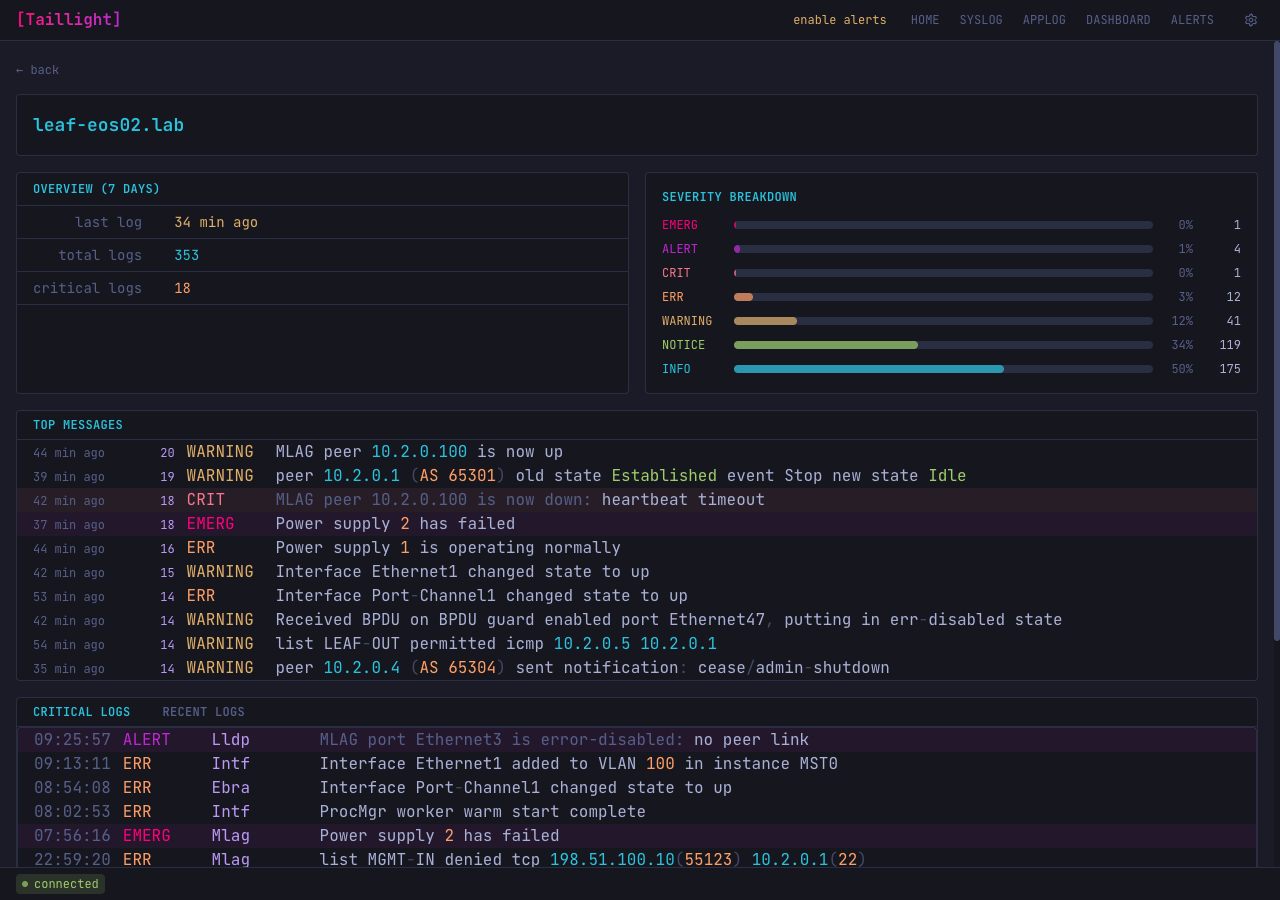
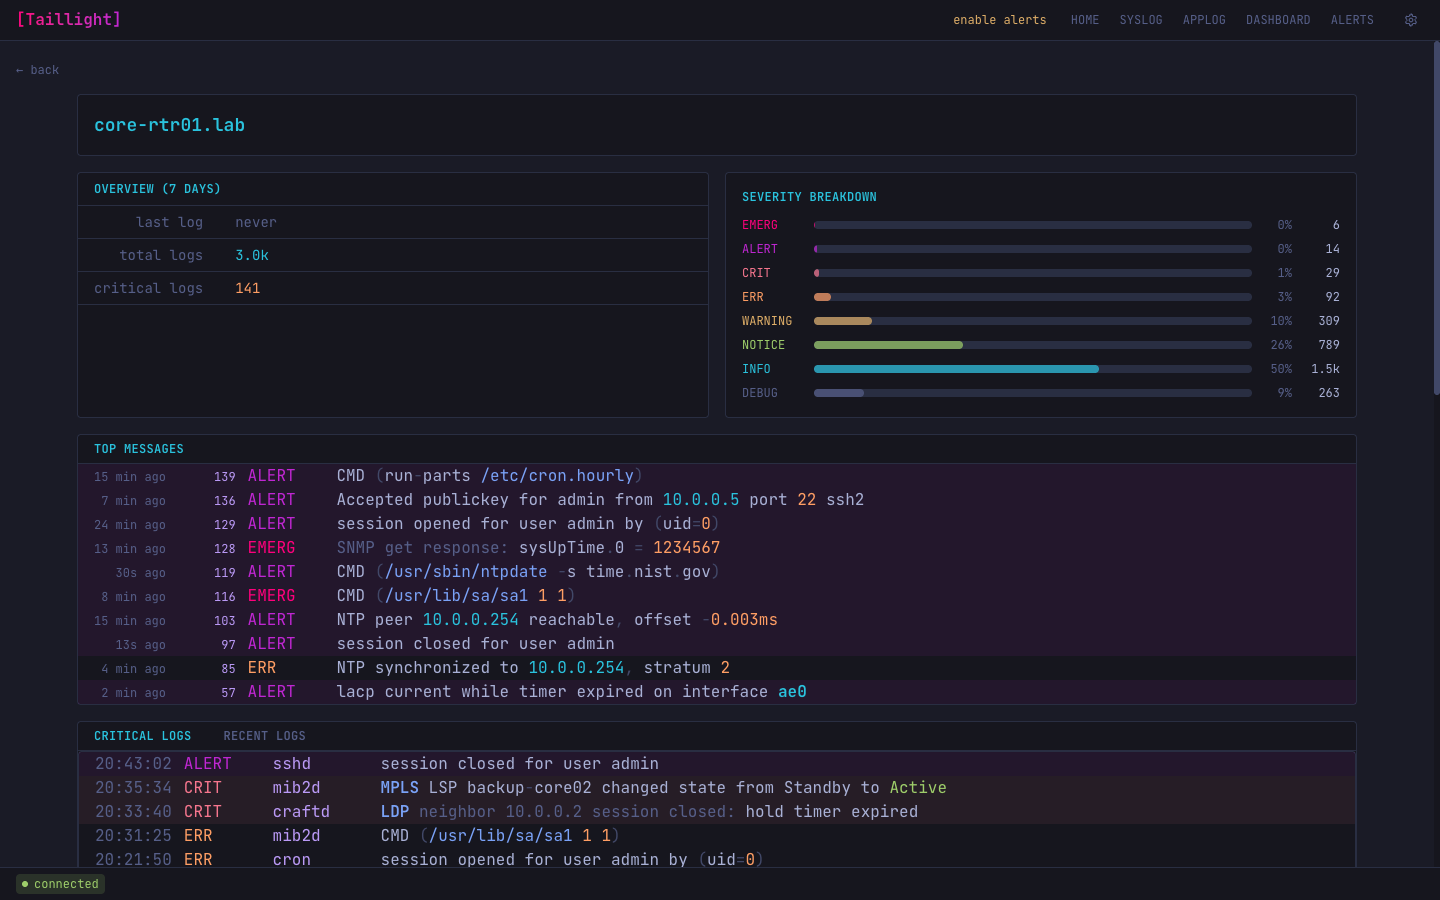
docs: update README screenshots from demo site and add live demo link

diff --git a/README.md b/README.md
@@ -5,11 +5,22 @@
 
 Lightweight, real-time log viewer for network operations teams. Stream syslog and application logs to your browser with a single Go binary and PostgreSQL.
 
-![Home](docs/screenshots/home.png)
+**[Live Demo](https://demo.taillight.lasse.cloud)** — try it without installing anything.
+
+![Home dashboard](docs/screenshots/home.png)
 
 ![Syslog stream](docs/screenshots/syslog-stream.png)
 
+<details>
+<summary>More screenshots</summary>
+
+![Application log stream](docs/screenshots/applog-stream.png)
+
 ![Device detail](docs/screenshots/device.png)
+
+![Dashboard](docs/screenshots/dashboard.png)
+
+</details>
 
 ## Why Taillight?
 
